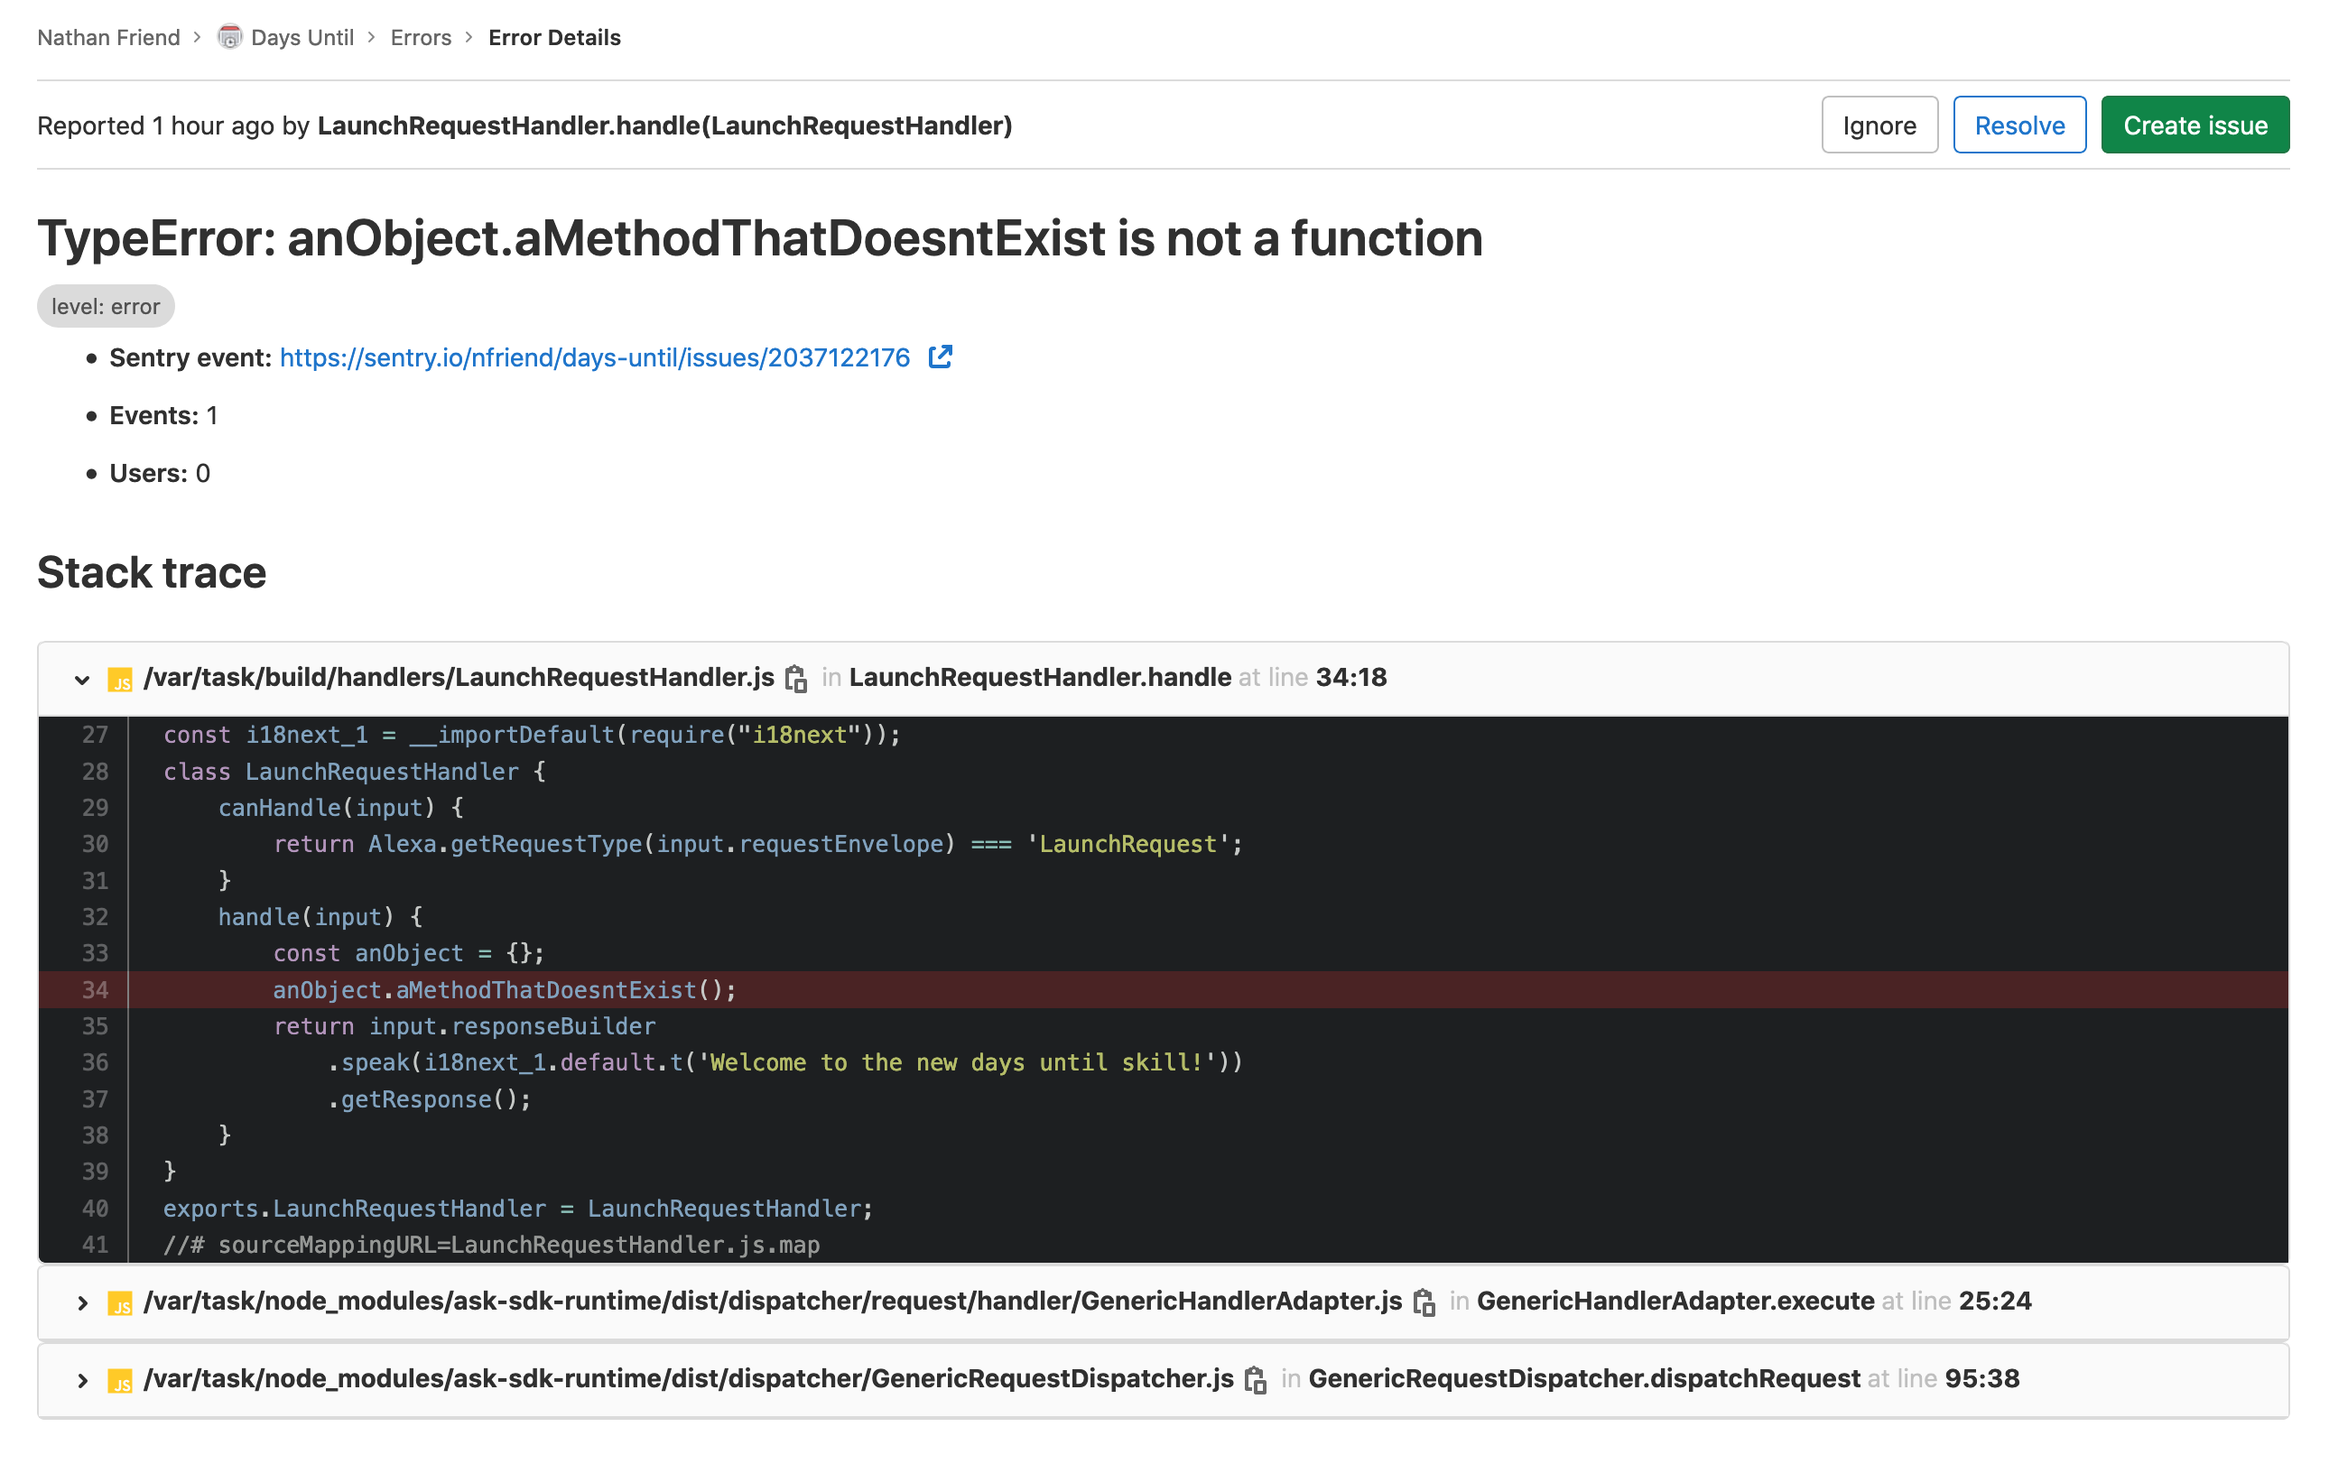
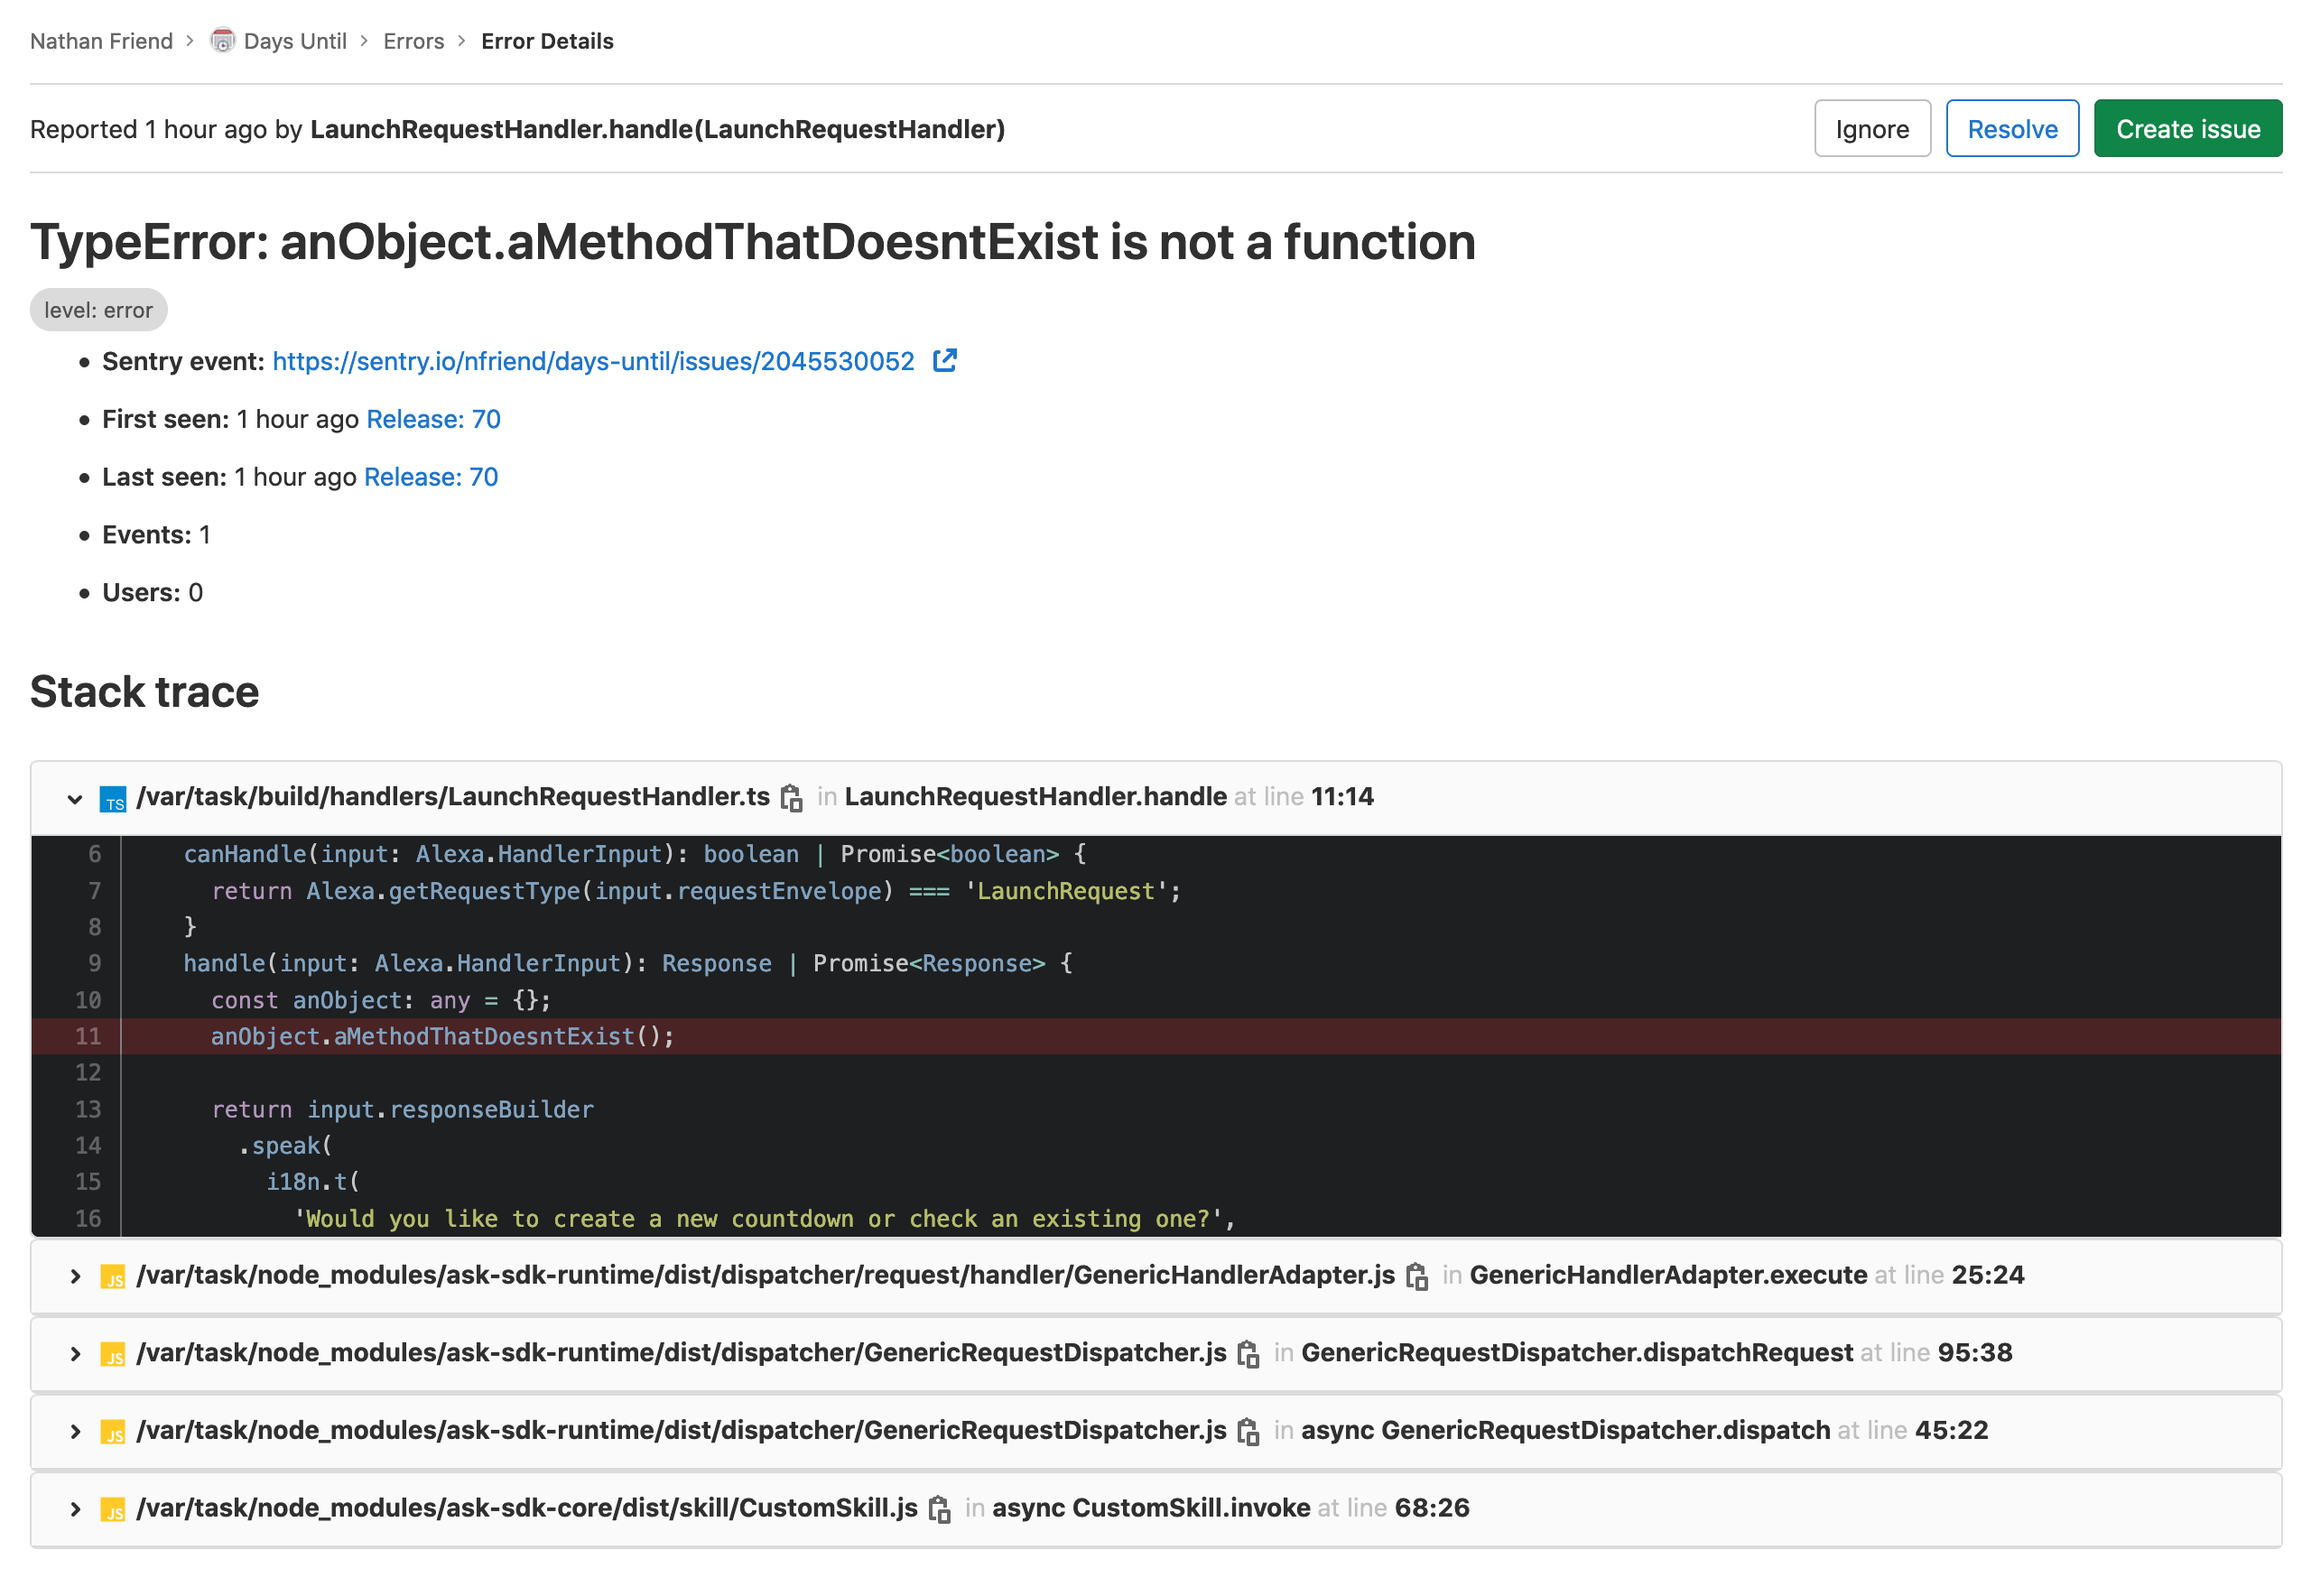
Update screenshot to show .ts code preview

diff --git a/_posts/2020-11-18-capturing-alexa-errors-with-sentry-and-gitlab.md b/_posts/2020-11-18-capturing-alexa-errors-with-sentry-and-gitlab.md
@@ -208,7 +208,7 @@ That's it! Navigate to **Operations > Error Tracking**. You should see the same
 set of Sentry errors nicely displayed inside your GitLab project.
 
 <figure>
-    <img class="bordered" src="{{ 'assets/img/capturing-alexa-errors-with-sentry-and-gitlab/gitlab-error-tracking-screenshot.png' | relative_url }}" alt="A screenshot of GitLab's Error Tracking page showing an issue's details" />
+    <img class="bordered" src="{{ 'assets/img/capturing-alexa-errors-with-sentry-and-gitlab/gitlab-error-tracking-screenshot.png?v=2' | relative_url }}" alt="A screenshot of GitLab's Error Tracking page showing an issue's details" />
 </figure><br>
 
 ## Source
